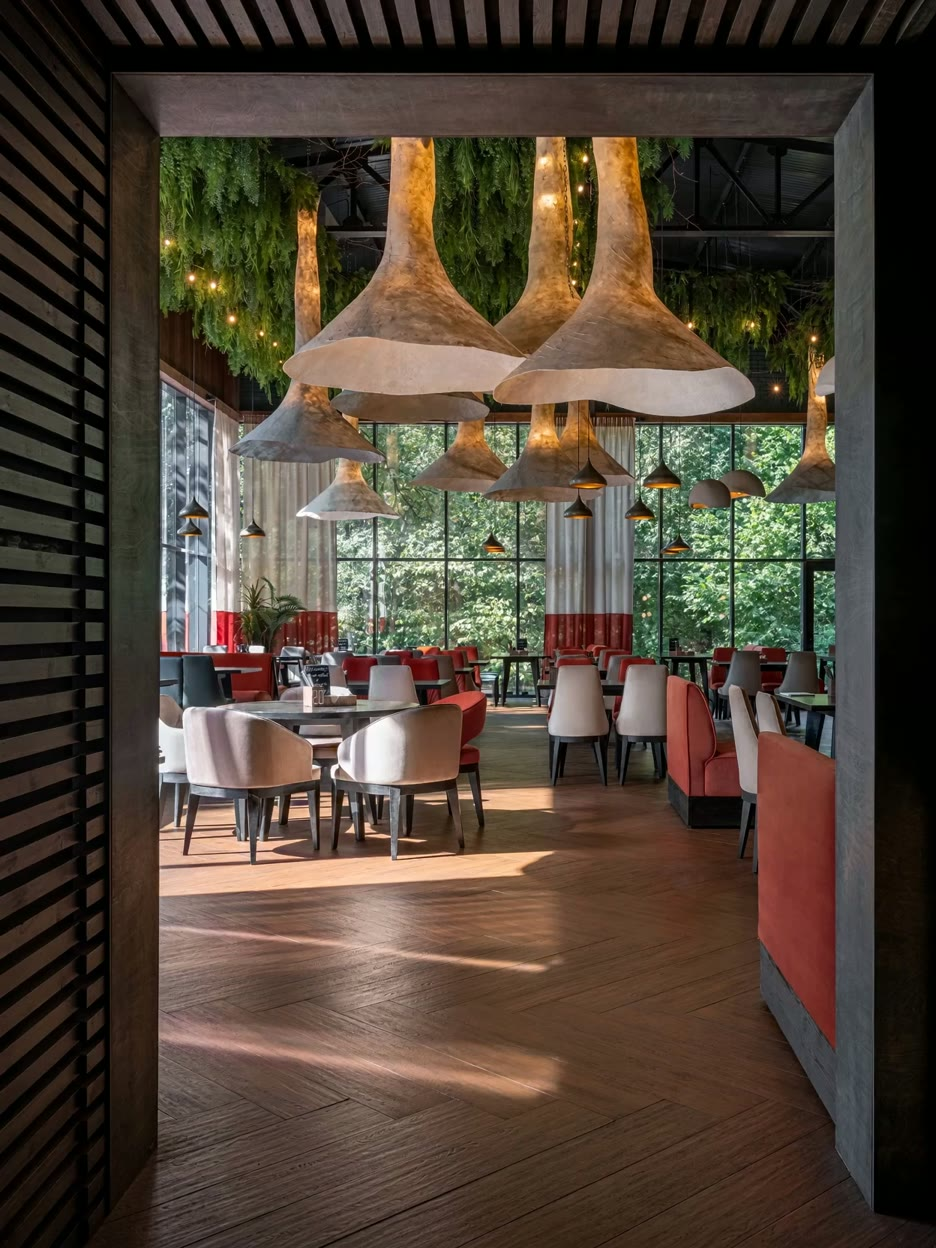
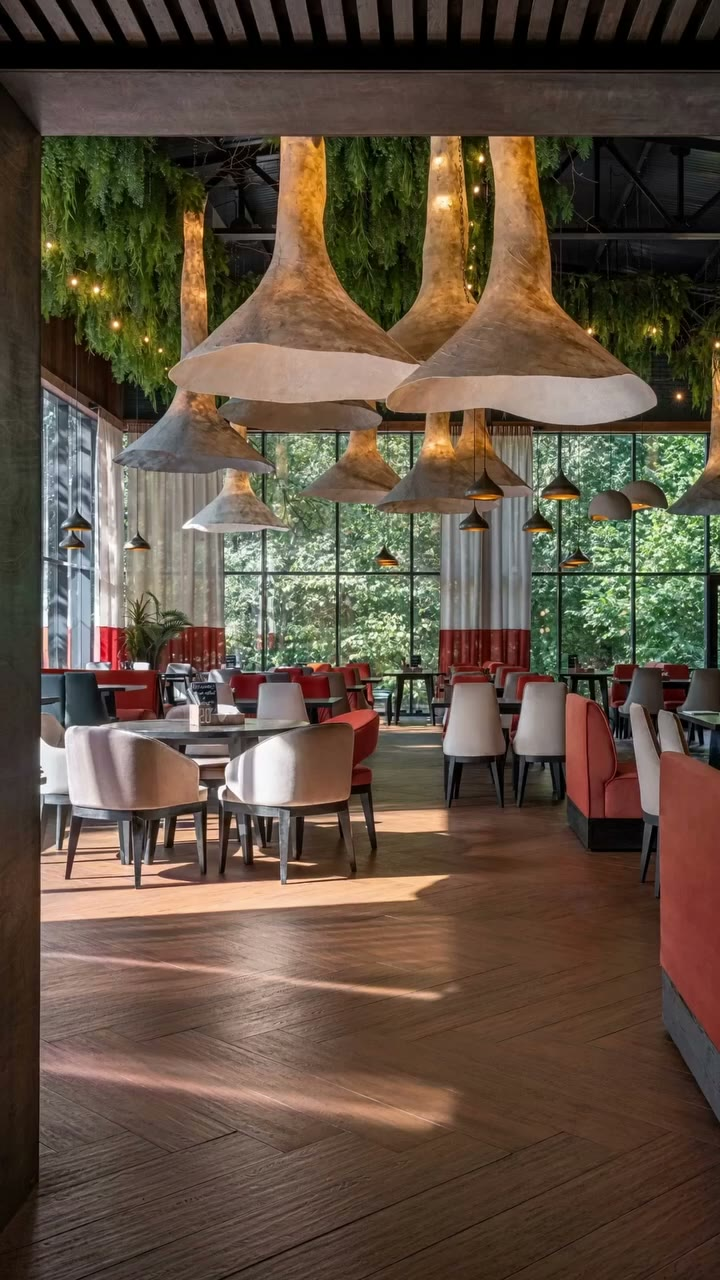
feat: hero на весь экран, новые видео-петли, тёмный оверлей, строгие кнопки, читаемая шапка
- Новые видео (PC 1080p/phone 720p) как бесшовные loop, оптимизированы
- Hero 100svh: на первом экране только header + hero + «листайте», бенто под сгибом
- Равномерное затемнение прячет дефекты видео
- Кнопки без «слоповых» пилюль: radius 8, primary/ghost, press-scale
- Тёмный скрим и text-shadow в шапке — текст читается поверх видео

diff --git a/app/redesign/page.tsx b/app/redesign/page.tsx
@@ -1,6 +1,6 @@
 import type { Metadata } from 'next';
 import { Vollkorn, Golos_Text } from 'next/font/google';
-import RedesignClient from './HubLanding';
+import RedesignClient from './Landing';
 
 const vollkorn = Vollkorn({
     subsets: ['cyrillic', 'latin'],